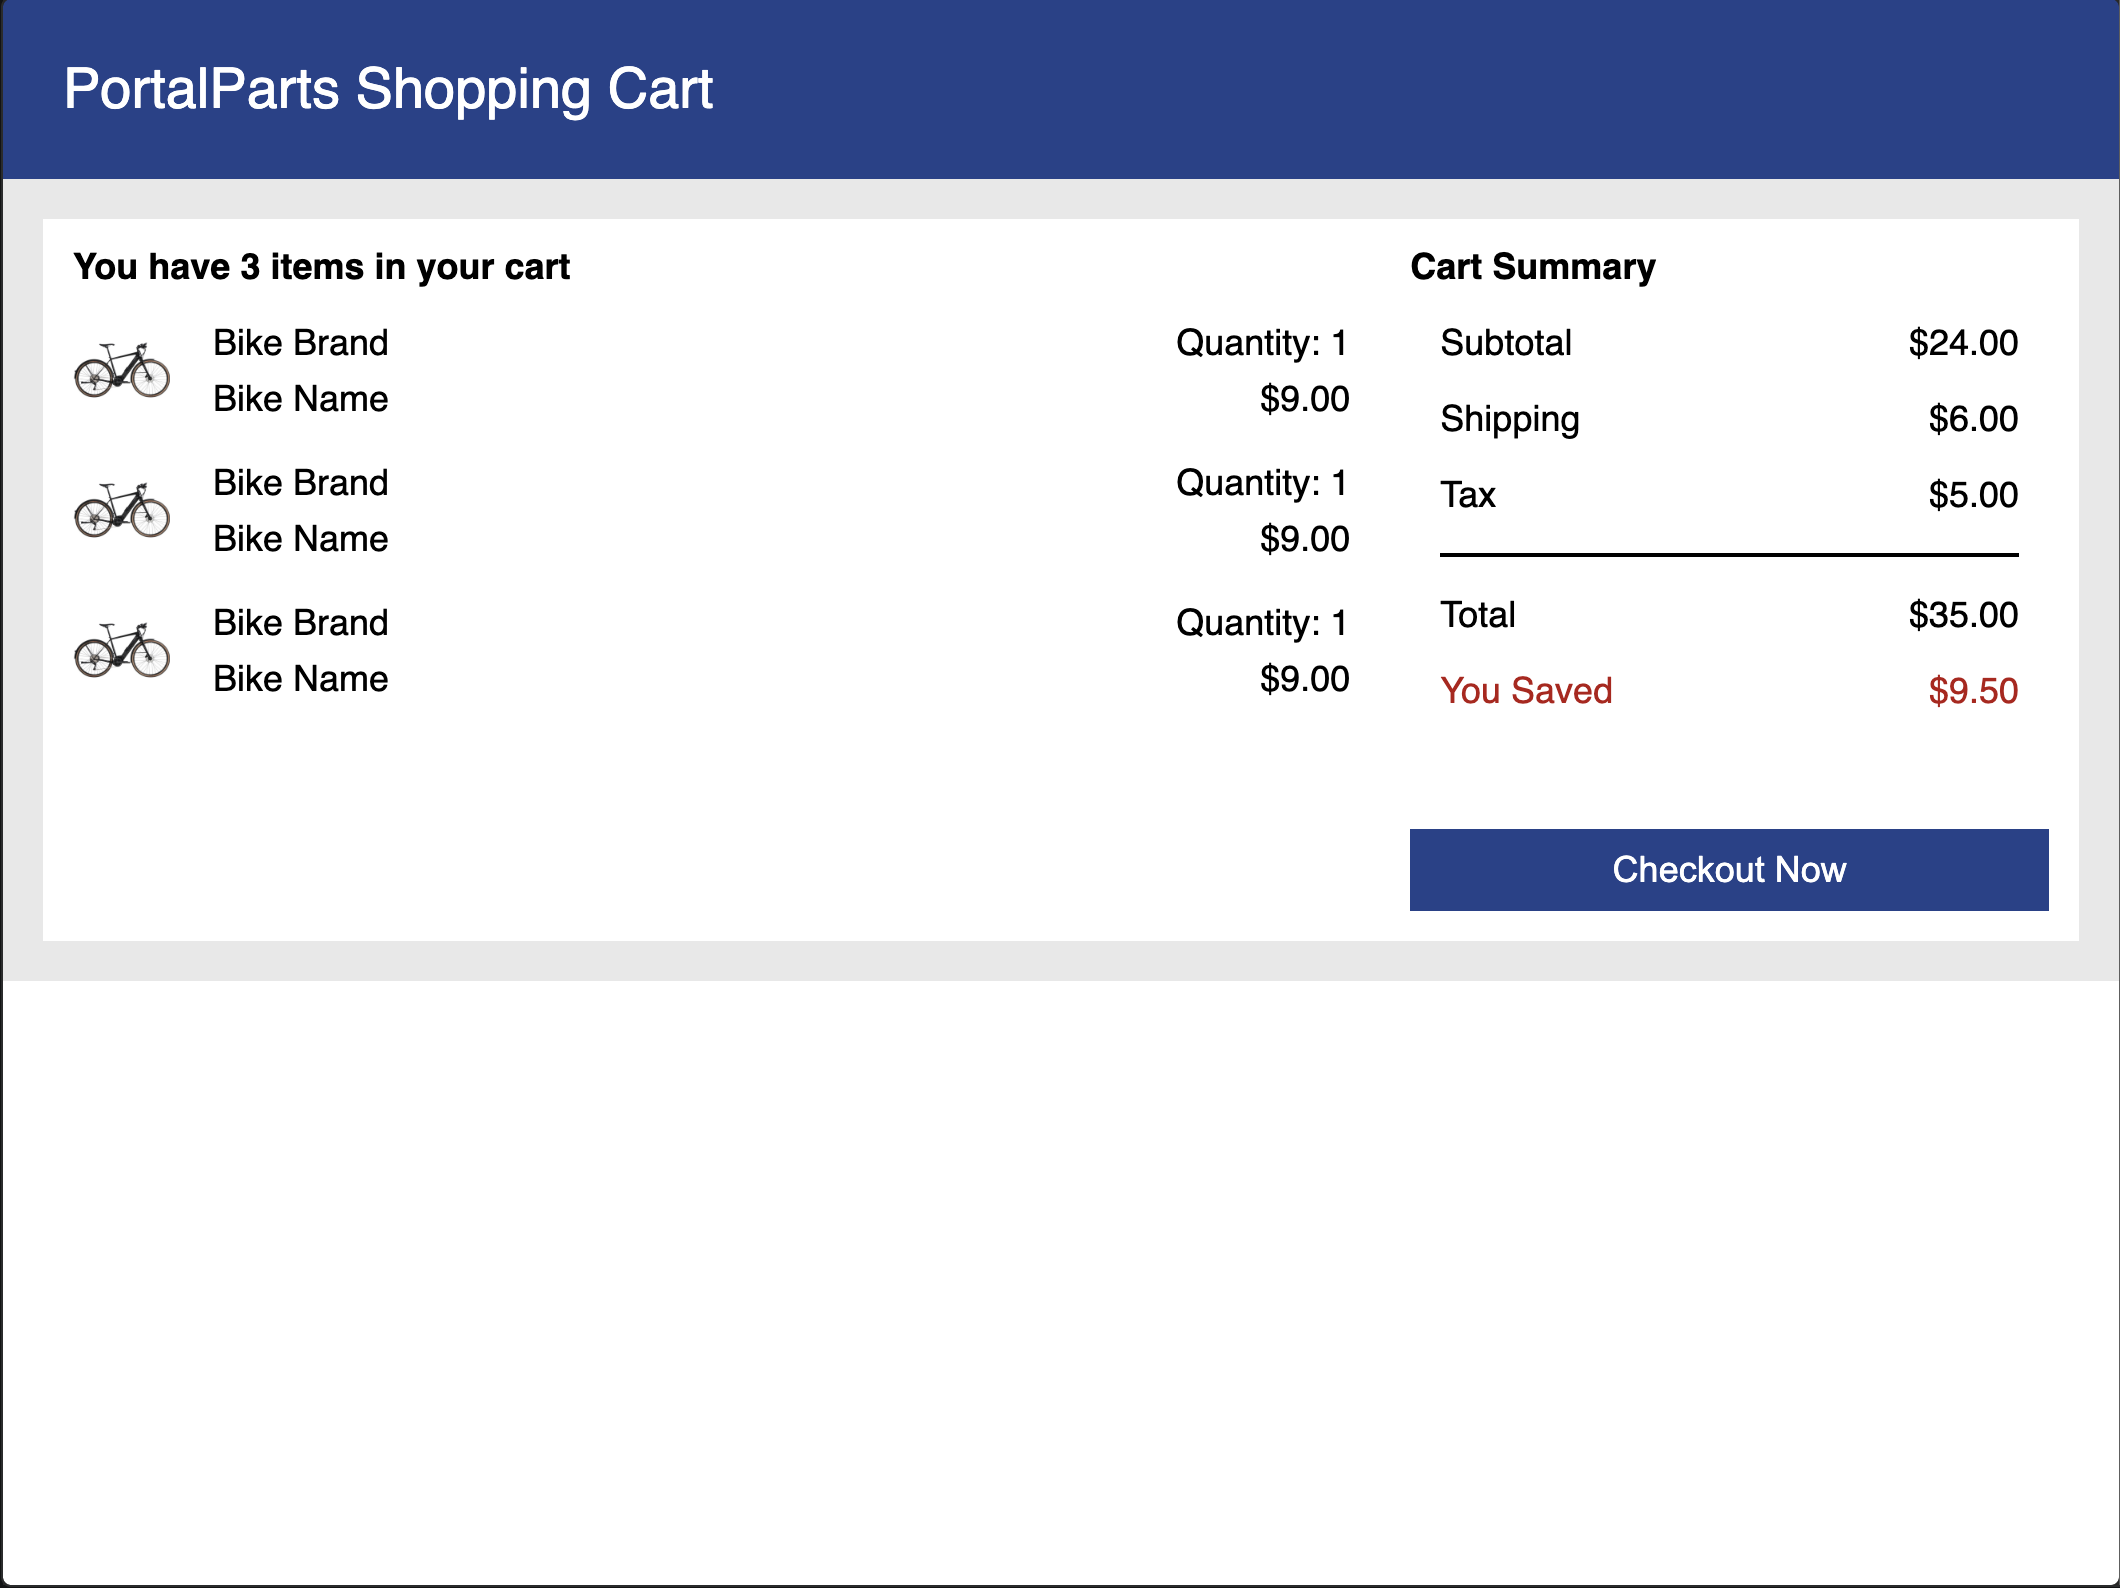
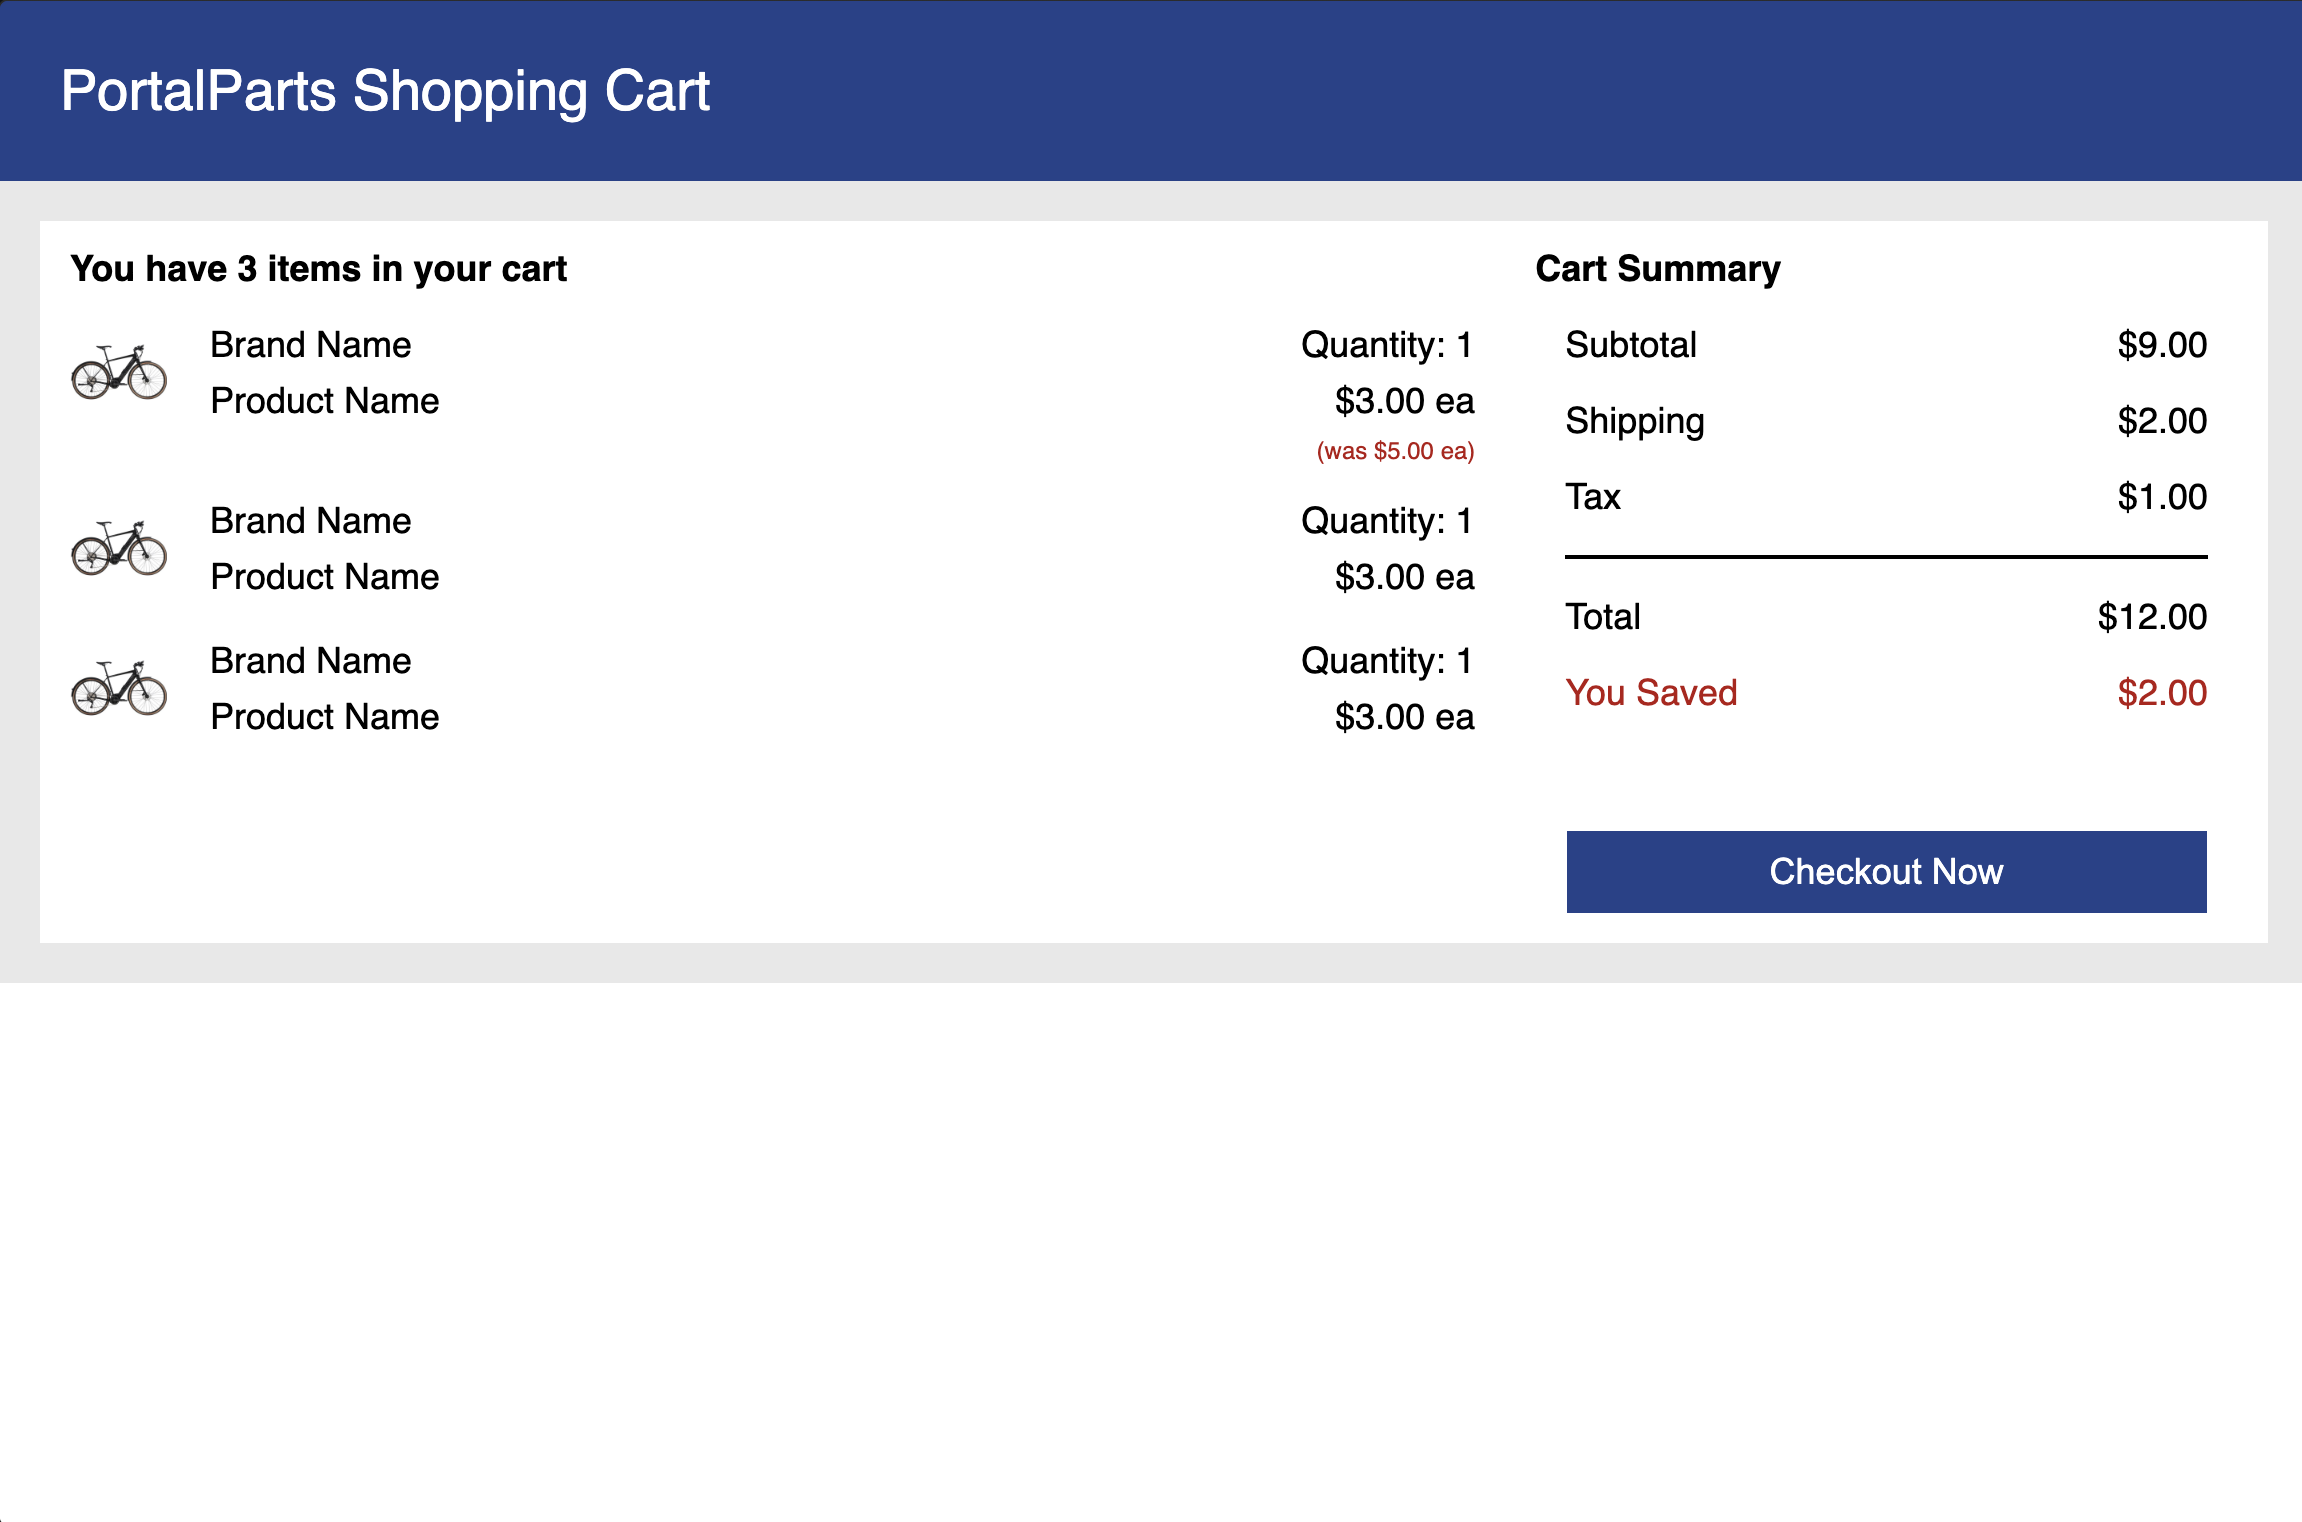
update mockups

diff --git a/src/components/CartBody.vue b/src/components/CartBody.vue
@@ -8,7 +8,8 @@
 				<span>{{ item.brandName }}</span>
 				<span>{{ item.productName }}</span>
 				<span>Quantity: {{ item.qty }}</span>
-				<span>{{item.regularPrice}}</span>
+				<span>{{item.salePrice}} ea</span>
+				<span :style="{ color: '#b51414', fontSize: '12px' }">(was {{item.regularPrice}} ea)</span>
 			 </div>
 		</div>
 	</div>
